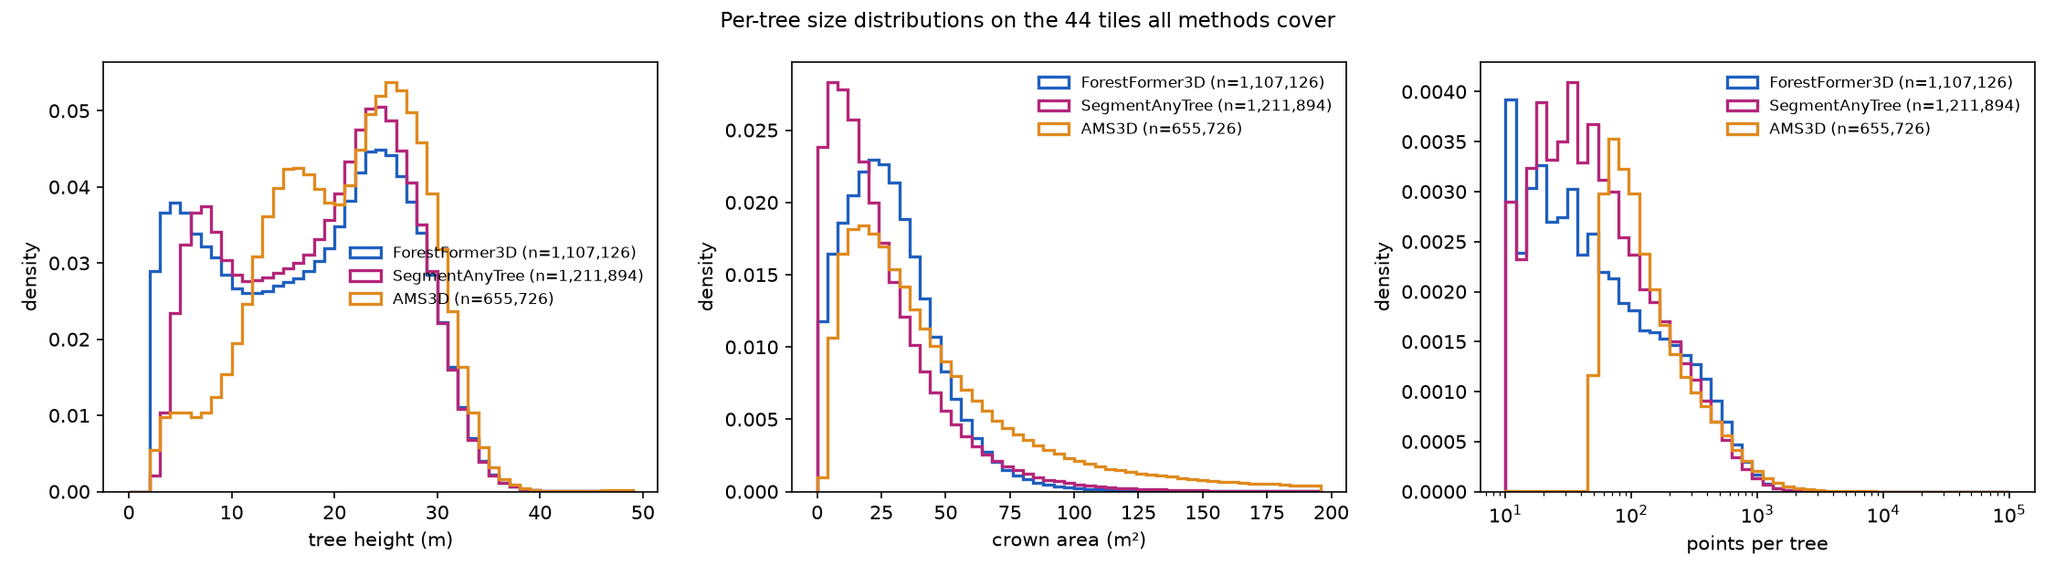
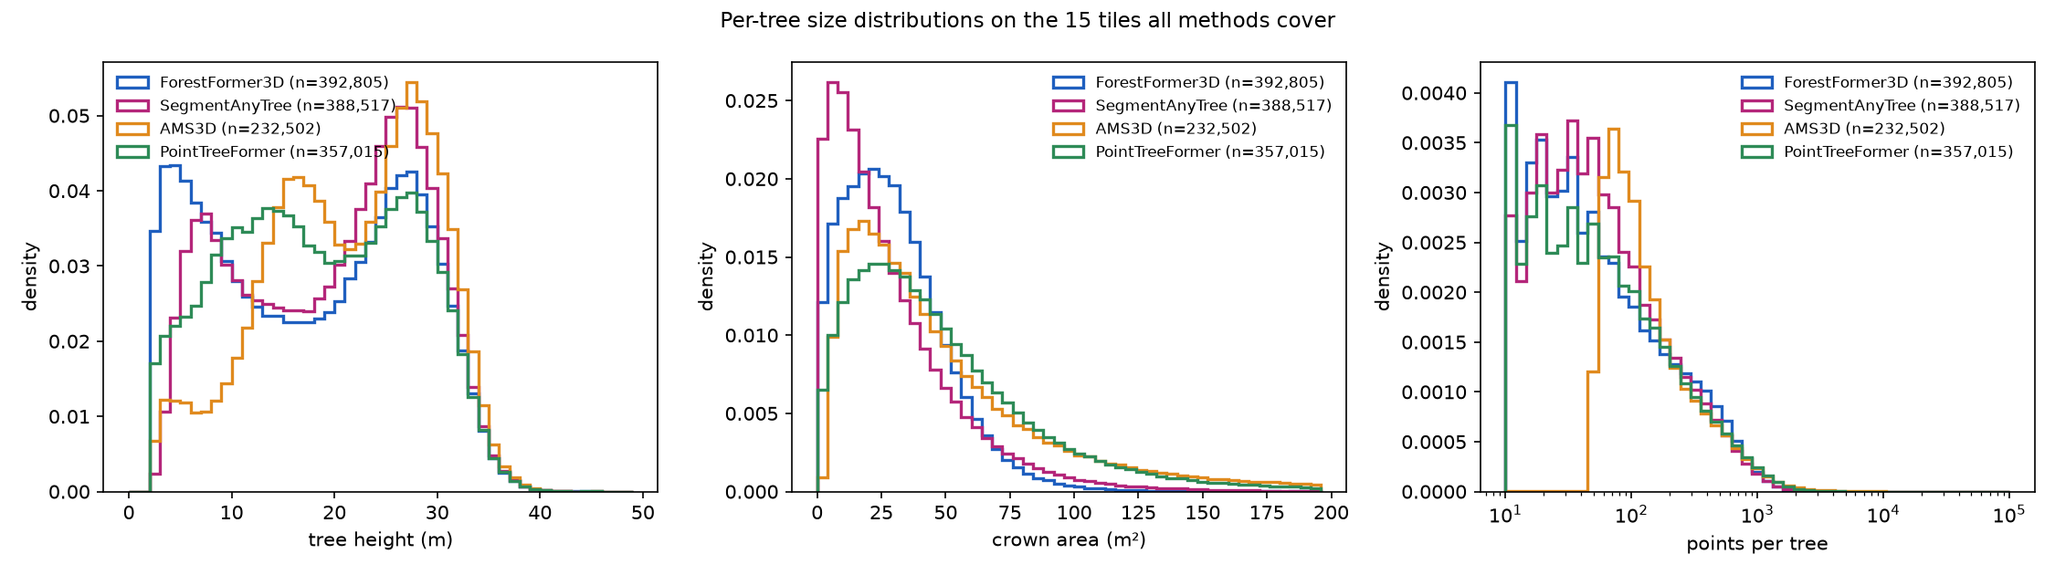
docs: PointTreeFormer as a fourth method in the analytics chapter and the report
The analytics read S. Reder's converted results (15 Tegel tiles) as a fourth method:
overview, quality flags, the shared-tiles distributions and every pairwise agreement found
under berlin_agreement/ are reported; trees are counted per (tile, id) for a method whose
ids are per tile (a stitch.json marks mosaic-wide ids). Methods, summary, introduction and
discussion name the source and what the comparison shows: it draws the larger crowns.

diff --git a/benchmark/berlin_analytics.py b/benchmark/berlin_analytics.py
@@ -38,9 +38,10 @@ METHODS = {
     "ff3d": ("ForestFormer3D", "berlin_als_2021_ff3d_v3"),
     "sat": ("SegmentAnyTree", "berlin_als_2021_sat_v3"),
     "ams3d": ("AMS3D", "berlin_als_2021_ams3d_v3"),
+    "ptf": ("PointTreeFormer", "berlin_als_2021_ptf"),      # S. Reder's results, 15 Tegel tiles (benchmark/ptf_to_ff3d.py)
 }
 AGREEMENT_TAG = "44"      # berlin_agreement/<a>_vs_<b>_<tag>/ from the carrot driver
-COLOURS = {"ff3d": "#1f5fbf", "sat": "#b4267a", "ams3d": "#e08a1e"}
+COLOURS = {"ff3d": "#1f5fbf", "sat": "#b4267a", "ams3d": "#e08a1e", "ptf": "#2e8b57"}
 FLAT_H, FLAT_AREA = 2.0, 50.0        # a "tree" under 2 m tall over 50 m2 of crown is ground labelled leaf
 SMALL_POINTS = 20                    # instances with fewer points than this are noise-sized
 CADASTRE_MATCH_M = 3.0               # a predicted top within this distance of a cadastre tree is a detection
@@ -122,8 +123,11 @@ def load_trees(als: Path, key: str, log=print):
     out = pd.concat(frames, ignore_index=True)
     # A table regenerated per tile from the tile's own LAS (building mask, height filter)
     # lists a tree straddling a km border in both tiles; the stitch's tables list it once.
-    # Count every id once, in the tile holding most of its points.
-    out = out.sort_values(["tree_id", "n_points"], ascending=[True, False]).drop_duplicates("tree_id", keep="first")
+    # Count every id once, in the tile holding most of its points -- but only where ids ARE
+    # mosaic-wide (a stitch.json exists); a method with per-tile ids (PointTreeFormer) reuses
+    # id 0.. in every tile and must be counted per (tile, id).
+    if (root / "stitch.json").exists():
+        out = out.sort_values(["tree_id", "n_points"], ascending=[True, False]).drop_duplicates("tree_id", keep="first")
     out = out.sort_values(["tile", "tree_id"]).reset_index(drop=True)
     return gpd.GeoDataFrame(out, geometry="geometry", crs=f"EPSG:{EPSG}")
 
@@ -458,11 +462,14 @@ def write_doc(doc: Path, assets_rel: str, S: dict, labels: dict) -> None:
                        [[L[k], S["methods"][k]["tiles"], fmt(S["methods"][k]["trees"]), fmt(S["methods"][k]["trees_per_km2"], 0),
                          fmt(S["methods"][k]["points_q"][1], 0),
                          " / ".join(fmt(v) for v in S["methods"][k]["height_q"]), fmt(S["methods"][k]["crown_q"][1])] for k in keys]), "",
-              "All three methods ran on the same 20 m-halo split of each km tile and went through the same "
-              "mosaic-wide stitch, so per-point labels are directly comparable (SegmentAnyTree and AMS3D "
-              "preserve point order; ForestFormer3D's result is re-ordered to the split)."
-              + (f" AMS3D's {S['methods']['ams3d']['tiles']} tiles are the subset it has been run on so far."
-                 if "ams3d" in S["methods"] and S["methods"]["ams3d"]["tiles"] < S["methods"]["ff3d"]["tiles"] else ""), ""]
+              "ForestFormer3D, SegmentAnyTree and AMS3D ran on the same 20 m-halo split of each km tile and went "
+              "through the same mosaic-wide stitch, so per-point labels are directly comparable (SegmentAnyTree and "
+              "AMS3D preserve point order; ForestFormer3D's result is re-ordered to the split); PointTreeFormer's "
+              "per-tile results were re-ordered onto the same points."
+              + "".join(f" {L[k]} covers {S['methods'][k]['tiles']} of the tiles, the subset it has been run on."
+                        for k in keys if S["methods"][k]["tiles"] < S["methods"]["ff3d"]["tiles"])
+              + (" PointTreeFormer's ids are per km tile (its run had a 20 m buffer but no mosaic-wide stitch), "
+                 "so its border trees are counted on both sides of a km line." if "ptf" in keys else ""), ""]
 
     # 2 per tile
     if "ff3d" in keys and "sat" in keys:
@@ -520,14 +527,18 @@ def write_doc(doc: Path, assets_rel: str, S: dict, labels: dict) -> None:
                  "Both are candidates for a post-filter; neither is applied to the products this chapter "
                  "describes (the minimum-height rule of the methods chapter applies from the 44-tile stitch on)."), ""]
     if S.get("three_way_tiles"):
-        lines += [f"On the {len(S['three_way_tiles'])} tiles all three methods cover "
+        lines += [f"On the {len(S['three_way_tiles'])} tiles every method covers "
                   f"({', '.join(tile_key(t) for t in S['three_way_tiles'])}):", "",
-                  f"![The same three distributions restricted to the tiles all three methods cover, now with AMS3D. "
+                  f"![The same distributions restricted to the tiles every method covers, all methods. "
                   f"Same axes and binning as the previous figure.]({assets_rel}/analytics_distributions_3way.png)", "",
                   "What we see: AMS3D has no short mode at all -- its height distribution starts at about 10 m -- and "
-                  "its crowns are the largest of the three. Mean shift with a height-dependent bandwidth merges the "
-                  "understory into the canopy tree above it, which is why it reports the fewest trees and the tallest "
-                  "ones; the two learned methods separate that layer.", "",
+                  "its crowns are the largest. Mean shift with a height-dependent bandwidth merges the understory into "
+                  "the canopy tree above it, which is why it reports the fewest trees and the tallest ones; the learned "
+                  "methods separate that layer. PointTreeFormer is the odd one out in height: a broad mode at 10-18 m, "
+                  "exactly where the other three have their trough, and the heaviest tail of large crowns (hulls "
+                  "over 75 m² are twice as frequent as in ForestFormer3D) -- consistent with it drawing the larger "
+                  "crowns in the agreement table and with mid-height instances that the others split into a canopy "
+                  "tree and an understory one.", "",
                   md_table(["method", "trees on these tiles", "height p10 / p50 / p90 (m)", "crown p50 (m²)"],
                            [[L[k], fmt(v["trees"]), " / ".join(fmt(x) for x in v["height_q"]), fmt(v["crown_q"][1])]
                             for k, v in S["three_way"].items()]), ""]
@@ -559,8 +570,11 @@ def write_doc(doc: Path, assets_rel: str, S: dict, labels: dict) -> None:
         if S["agreement"].get("ams3d"):
             rows = [[p, v["tiles"], pct(v["matched_frac_a"]), pct(v["matched_frac_b"]), fmt(v["iou_median"], 3), pct(v["split_a_frac"]), pct(v["split_b_frac"])]
                     for p, v in S["agreement"]["ams3d"].items()]
-            lines += ["On the tiles AMS3D covers, the classical baseline against each learned method (A = first named):", "",
-                      md_table(["pair", "tiles", "A matched", "B matched", "median IoU", "A split by B", "B split by A"], rows), ""]
+            lines += ["The other pairs, each on the tiles both methods cover (A = the first named):", "",
+                      md_table(["pair", "tiles", "A matched", "B matched", "median IoU", "A split by B", "B split by A"], rows), "",
+                      "The split columns say who draws the larger crowns: a method whose trees are often covered by "
+                      "several instances of the other draws them large (AMS3D, PointTreeFormer), one that splits the "
+                      "other's trees draws them small (SegmentAnyTree).", ""]
 
     # 5 seams + buildings
     lines += ["## 5. Seams and the building mask", "",
@@ -661,7 +675,8 @@ def write_doc(doc: Path, assets_rel: str, S: dict, labels: dict) -> None:
               "* The inventory heights are stand means from 2014 and the cadastre heights are inspection "
               "estimates; both references are coarser than the ALS-derived heights they are compared with.",
               "* The flat-blob and noise flags are descriptive; no filtering was applied to any count in this report.",
-              "* AMS3D covers a subset of tiles; its rows are not comparable with the 33-tile totals of the other two.", ""]
+              "* A method that covers only part of the tiles (the table says how many) is not comparable with the "
+              "whole-mosaic totals of the others; its per-tile rates are.", ""]
     doc.write_text("\n".join(lines))
 
 
@@ -734,9 +749,10 @@ def main(argv=None) -> int:
                 inside = [t for t in common if f.geometry.intersection(box(int(t.split("_")[2]) * 1000, int(t.split("_")[3]) * 1000,
                                                                           int(t.split("_")[2]) * 1000 + 1000, int(t.split("_")[3]) * 1000 + 1000)).area > 2.5e5]
                 S["ratio_by_footprint"][f.key] = {"tiles": len(inside), "ratio": float(np.mean([ratio[t] for t in inside])) if inside else np.nan}
-    fig_distributions({k: v for k, v in trees.items() if k != "ams3d"} or trees, a.assets / "analytics_distributions.png")
-    if "ams3d" in trees and len(trees) > 1:
-        three = sorted(set(trees["ams3d"].tile).intersection(*[set(v.tile) for k, v in trees.items() if k != "ams3d"]))
+    full = {k: v for k, v in trees.items() if v.tile.nunique() == trees["ff3d"].tile.nunique()} if "ff3d" in trees else trees
+    fig_distributions(full or trees, a.assets / "analytics_distributions.png")
+    if len(trees) > len(full):
+        three = sorted(set.intersection(*[set(v.tile) for v in trees.values()]))
         if three:
             S["three_way_tiles"] = three
             S["three_way"] = {k: {"trees": int(v.tile.isin(three).sum()), "height_q": quantiles(v[v.tile.isin(three)].height),
@@ -749,10 +765,14 @@ def main(argv=None) -> int:
         S["agreement"] = {"ff3d_sat": pooled_agreement(agr)}
         fig_agreement(agr, a.assets / "analytics_agreement.png", labels["ff3d"], labels["sat"])
         pairs = {}
-        for k in ("ff3d", "sat"):
-            recs = load_agreement(als / "berlin_agreement" / f"{k}_vs_ams3d_{AGREEMENT_TAG}")
+        for d in sorted((als / "berlin_agreement").glob(f"*_vs_*_{AGREEMENT_TAG}")):
+            a_key, b_key = d.name[: -len(f"_{AGREEMENT_TAG}")].split("_vs_")
+            if (a_key, b_key) == ("ff3d", "sat") or a_key not in labels or b_key not in labels:
+                continue
+            recs = load_agreement(d)
             if recs:
-                pairs[f"{labels[k]} vs AMS3D"] = pooled_agreement(recs)
+                pairs[f"{labels[a_key]} vs {labels[b_key]}"] = pooled_agreement(recs)
+                S["agreement"][f"{a_key}_{b_key}"] = pairs[f"{labels[a_key]} vs {labels[b_key]}"]
         if pairs:
             S["agreement"]["ams3d"] = pairs
 

diff --git a/tests/test_berlin_analytics.py b/tests/test_berlin_analytics.py
@@ -66,3 +66,31 @@ def test_real_drops_macos_resource_forks(tmp_path):
     (tmp_path / "a.json").write_text("{}")
     (tmp_path / "._a.json").write_bytes(b"\x00\x05\x16\x07")
     assert [p.name for p in real(sorted(tmp_path.glob("*.json")))] == ["a.json"]
+
+
+def test_load_trees_dedupes_only_mosaic_wide_ids(tmp_path):
+    """Stitched methods (stitch.json present) list a km-border tree in two tiles' regenerated
+    tables and must count it once; a method with per-tile ids (PointTreeFormer) reuses id 0..
+    in every tile and must be counted per (tile, id)."""
+    gpd = pytest.importorskip("geopandas")
+    from shapely.geometry import Point
+    import berlin_analytics as ba
+
+    def table(root, tile, ids, npts):
+        d = root / tile; d.mkdir(parents=True)
+        g = gpd.GeoDataFrame({"tree_id": ids, "x": [0.0] * len(ids), "y": [0.0] * len(ids), "top_z": [10.0] * len(ids),
+                              "height": [10.0] * len(ids), "crown_area_m2": [20.0] * len(ids), "n_points": npts,
+                              "mean_score": [0.5] * len(ids)}, geometry=[Point(0, 0)] * len(ids), crs="EPSG:25833")
+        g.to_file(d / f"{tile}_trees.gpkg", driver="GPKG", layer="trees")
+
+    als = tmp_path
+    for key, with_stitch in (("ff3d", True), ("ptf", False)):
+        root = als / ba.METHODS[key][1]
+        table(root, "3dm_33_380_5828_1_be", [0, 1], [100, 50])
+        table(root, "3dm_33_381_5828_1_be", [1, 2], [30, 70])          # id 1 appears in both tiles
+        if with_stitch:
+            (root / "stitch.json").write_text("{}")
+    ff3d = ba.load_trees(als, "ff3d", log=lambda m: None)
+    ptf = ba.load_trees(als, "ptf", log=lambda m: None)
+    assert len(ff3d) == 3 and ff3d[ff3d.tree_id == 1].tile.tolist() == ["3dm_33_380_5828_1_be"]   # kept where it has most points
+    assert len(ptf) == 4

diff --git a/docs/benchmarks/2026-10-05-berlin-analytics.md b/docs/benchmarks/2026-10-05-berlin-analytics.md
@@ -1,6 +1,6 @@
 # Comparisons and analytics across the Berlin mosaic
 
-Generated 2026-10-06 by `benchmark/berlin_analytics.py` from the stitched per-tile products on the 2TB volume; every number here is also in `assets/analytics/analytics.json`. The chapter compares the three segmentation methods with each other on identical points and, where an external reference exists, against the Berlin forest inventory and the tree cadastre. It says nothing about which method is *right* in the forest interior -- no per-tree ground truth exists there (data-sources chapter, section 5).
+Generated 2026-10-07 by `benchmark/berlin_analytics.py` from the stitched per-tile products on the 2TB volume; every number here is also in `assets/analytics/analytics.json`. The chapter compares the three segmentation methods with each other on identical points and, where an external reference exists, against the Berlin forest inventory and the tree cadastre. It says nothing about which method is *right* in the forest interior -- no per-tree ground truth exists there (data-sources chapter, section 5).
 
 ## 1. What was compared
 
@@ -9,8 +9,9 @@ Generated 2026-10-06 by `benchmark/berlin_analytics.py` from the stitched per-ti
 | ForestFormer3D | 44 | 1,107,126 | 25,162 | 285 | 4.9 / 18.6 / 28.8 | 26.2 |
 | SegmentAnyTree | 44 | 1,211,894 | 27,543 | 212 | 6.9 / 19.8 / 28.8 | 19.4 |
 | AMS3D | 44 | 655,726 | 14,903 | 302 | 10.8 / 21.6 / 29.9 | 36.6 |
+| PointTreeFormer | 15 | 357,015 | 23,801 | 298 | 6.7 / 18.4 / 30.1 | 40.0 |
 
-All three methods ran on the same 20 m-halo split of each km tile and went through the same mosaic-wide stitch, so per-point labels are directly comparable (SegmentAnyTree and AMS3D preserve point order; ForestFormer3D's result is re-ordered to the split).
+ForestFormer3D, SegmentAnyTree and AMS3D ran on the same 20 m-halo split of each km tile and went through the same mosaic-wide stitch, so per-point labels are directly comparable (SegmentAnyTree and AMS3D preserve point order; ForestFormer3D's result is re-ordered to the split); PointTreeFormer's per-tile results were re-ordered onto the same points. PointTreeFormer covers 15 of the tiles, the subset it has been run on. PointTreeFormer's ids are per km tile (its run had a 20 m buffer but no mosaic-wide stitch), so its border trees are counted on both sides of a km line.
 
 ## 2. Trees per km tile
 
@@ -31,22 +32,24 @@ What we see: the height panel has two modes for both methods, a tall one at 24-2
 | ForestFormer3D | 1,107,126 | 0 (0.0 %) | 36,108 (3.3 %) | 462 (0.04 %) |
 | SegmentAnyTree | 1,211,894 | 0 (0.0 %) | 47,126 (3.9 %) | 552 (0.05 %) |
 | AMS3D | 655,726 | 0 (0.0 %) | 78 (0.0 %) | 808 (0.12 %) |
+| PointTreeFormer | 357,015 | 0 (0.0 %) | 10,761 (3.0 %) | 153 (0.04 %) |
 
 Both height distributions are bimodal: a canopy mode near 26 m and a second mode at 4-7 m (understory, hedges, young trees in gardens). ForestFormer3D has more of the low mode and of instances under 2 m; SegmentAnyTree's crowns are smaller (crown area p50 20 vs 26 m²) because it cuts more of them (section 4).
 
 The flat-blob flag is the artefact seen in the viewer: an instance with almost no height but a large footprint is bare ground (ALS class 2) that the model labelled as leaf, not a tree. The noise-sized flag counts instances too small to be a crown at 20-30 pts/m². The products of this chapter went through the stitch's minimum-height rule (2.0 m), which removed 15,841 instances mosaic-wide before any table was written; the counts above are after it, and the flat-blob row is what the 2 m rule does not reach (instances taller than 2 m with a wide, flat hull).
 
-On the 44 tiles all three methods cover (374_5825, 374_5826, 374_5827, 374_5828, 375_5825, 375_5826, 375_5827, 375_5828, 375_5829, 376_5825, 376_5826, 376_5827, 376_5828, 377_5825, 377_5826, 377_5827, 377_5828, 378_5826, 378_5827, 379_5826, 379_5827, 379_5828, 379_5829, 379_5830, 380_5826, 380_5827, 380_5828, 380_5829, 380_5830, 381_5826, 381_5827, 381_5828, 381_5829, 381_5830, 382_5826, 382_5827, 382_5828, 382_5829, 382_5830, 383_5826, 383_5827, 383_5828, 383_5829, 383_5830):
+On the 15 tiles every method covers (379_5826, 379_5827, 379_5828, 379_5829, 380_5826, 380_5827, 380_5828, 380_5829, 381_5827, 381_5828, 381_5829, 382_5828, 382_5829, 383_5828, 383_5829):
 
-![The same three distributions restricted to the tiles all three methods cover, now with AMS3D. Same axes and binning as the previous figure.](assets/analytics/analytics_distributions_3way.png)
+![The same distributions restricted to the tiles every method covers, all methods. Same axes and binning as the previous figure.](assets/analytics/analytics_distributions_3way.png)
 
-What we see: AMS3D has no short mode at all -- its height distribution starts at about 10 m -- and its crowns are the largest of the three. Mean shift with a height-dependent bandwidth merges the understory into the canopy tree above it, which is why it reports the fewest trees and the tallest ones; the two learned methods separate that layer.
+What we see: AMS3D has no short mode at all -- its height distribution starts at about 10 m -- and its crowns are the largest. Mean shift with a height-dependent bandwidth merges the understory into the canopy tree above it, which is why it reports the fewest trees and the tallest ones; the learned methods separate that layer. PointTreeFormer is the odd one out in height: a broad mode at 10-18 m, exactly where the other three have their trough, and the heaviest tail of large crowns (hulls over 75 m² are twice as frequent as in ForestFormer3D) -- consistent with it drawing the larger crowns in the agreement table and with mid-height instances that the others split into a canopy tree and an understory one.
 
 | method | trees on these tiles | height p10 / p50 / p90 (m) | crown p50 (m²) |
 | :--- | ---: | ---: | ---: |
-| ForestFormer3D | 1,107,126 | 4.9 / 18.6 / 28.8 | 26.2 |
-| SegmentAnyTree | 1,211,894 | 6.9 / 19.8 / 28.8 | 19.4 |
-| AMS3D | 655,726 | 10.8 / 21.6 / 29.9 | 36.6 |
+| ForestFormer3D | 392,805 | 4.5 / 18.2 / 30.1 | 27.3 |
+| SegmentAnyTree | 388,517 | 6.9 / 21.3 / 30.4 | 21.5 |
+| AMS3D | 232,502 | 10.6 / 22.2 / 31.1 | 39.4 |
+| PointTreeFormer | 357,015 | 6.7 / 18.4 / 30.1 | 40.0 |
 
 ## 4. Instance agreement: ForestFormer3D vs SegmentAnyTree
 
@@ -56,12 +59,15 @@ What we see: the matched fractions move together from tile to tile (0.35-0.68) a
 
 Pooled over 44 tiles and 778,681,715 identical points: 637,325 tree pairs overlap with IoU ≥ 0.5, i.e. 57.0 % of ForestFormer3D's 1,117,231 trees and 52.2 % of SegmentAnyTree's 1,219,764; the median IoU of a matched pair is 0.742 (the median of the per-tile medians; all pooled figures weight tiles by their tree count, so they differ in the last digit from the unweighted tile means quoted in the appendix). 28.8 % of ForestFormer3D trees are covered by two or more SegmentAnyTree instances against 10.5 % the other way round: where the two disagree, SegmentAnyTree has mostly cut one crown into several, which is also why it reports more trees.
 
-On the tiles AMS3D covers, the classical baseline against each learned method (A = first named):
+The other pairs, each on the tiles both methods cover (A = the first named):
 
 | pair | tiles | A matched | B matched | median IoU | A split by B | B split by A |
 | :--- | ---: | ---: | ---: | ---: | ---: | ---: |
 | ForestFormer3D vs AMS3D | 44 | 32.0 % | 53.7 % | 0.725 | 11.4 % | 34.1 % |
+| ForestFormer3D vs PointTreeFormer | 15 | 51.1 % | 56.9 % | 0.732 | 17.8 % | 31.6 % |
 | SegmentAnyTree vs AMS3D | 44 | 27.3 % | 50.1 % | 0.726 | 9.8 % | 39.0 % |
+
+The split columns say who draws the larger crowns: a method whose trees are often covered by several instances of the other draws them large (AMS3D, PointTreeFormer), one that splits the other's trees draws them small (SegmentAnyTree).
 
 ## 5. Seams and the building mask
 
@@ -129,9 +135,11 @@ The cadastre lists managed trees with a surveyed position and a height that is u
 | R12 | 515 | ForestFormer3D | 100 % | 193,229 | 375 | 6.1 / 22.6 / 31.5 |
 | R12 | 515 | SegmentAnyTree | 100 % | 186,125 | 361 | 9.1 / 24.9 / 31.8 |
 | R12 | 515 | AMS3D | 100 % | 131,396 | 255 | 13.1 / 24.2 / 32.0 |
+| R12 | 515 | PointTreeFormer | 100 % | 180,312 | 350 | 9.4 / 21.6 / 31.4 |
 | R13 | 1,034 | ForestFormer3D | 100 % | 372,818 | 361 | 6.8 / 21.1 / 28.4 |
 | R13 | 1,034 | SegmentAnyTree | 100 % | 434,322 | 420 | 7.8 / 21.4 / 28.2 |
 | R13 | 1,034 | AMS3D | 100 % | 254,523 | 246 | 12.3 / 22.2 / 29.0 |
+| R13 | 1,034 | PointTreeFormer | 0 % | 0 | – | – / – / – |
 
 Density is per covered hectare, so partially covered footprints (R13 Spandau until its eleven remaining tiles are processed; AMS3D on its tile subset) stay comparable; the tree counts are partial.
 
@@ -140,4 +148,4 @@ Density is per covered hectare, so partially covered footprints (R13 Spandau unt
 * Agreement between methods is not accuracy: two methods can agree on a wrong split.
 * The inventory heights are stand means from 2014 and the cadastre heights are inspection estimates; both references are coarser than the ALS-derived heights they are compared with.
 * The flat-blob and noise flags are descriptive; no filtering was applied to any count in this report.
-* AMS3D covers a subset of tiles; its rows are not comparable with the 33-tile totals of the other two.
+* A method that covers only part of the tiles (the table says how many) is not comparable with the whole-mosaic totals of the others; its per-tile rates are.

diff --git a/docs/benchmarks/2026-10-05-methods.md b/docs/benchmarks/2026-10-05-methods.md
@@ -22,7 +22,7 @@ grid lines over the interior. Shifting the measuring lattice by 50 m gives the c
 floor those numbers are compared with (about 8 % of crowns touch any arbitrary line; 0 pp
 excess).
 
-## The three methods
+## The methods
 
 **ForestFormer3D** (Xiang et al. 2025) is a transformer over sparse-voxel features
 (OneFormer3D lineage, SpConv U-Net backbone, 300 query points, one-to-many matching),
@@ -47,8 +47,16 @@ ground, the classical approach the deep models are usually compared with. It run
 through the same sub-tiles and stitch; at 48 workers a km tile takes about 22 minutes
 (four such queues share the 224-core host).
 
-The three therefore differ only in the segmentation step; the points, the halo, the core
-ownership and the stitch are identical, so every per-point comparison is like for like.
+**PointTreeFormer** (Stefan Reder, HNEE) is a fourth segmentation whose results, not code, enter
+this report: he ran his model over 15 km tiles of the Tegel block (2026-10-05), each with a 20 m
+buffer, writing per-point ground/wood/leaf and instance ids per tile. `benchmark/ptf_to_ff3d.py`
+crops the buffer, puts the points into our result LAS order (the core holds exactly the tile's
+source points) and applies the 2 m rule, so per-point agreement is exact; its ids are not unified
+across km lines, since it did not go through the mosaic stitch.
+
+The first three therefore differ only in the segmentation step; the points, the halo, the core
+ownership and the stitch are identical, so every per-point comparison is like for like, and
+PointTreeFormer shares the points and the height rule but not the stitch.
 
 ## Products and post-processing
 

diff --git a/docs/benchmarks/2026-10-05-summary.md b/docs/benchmarks/2026-10-05-summary.md
@@ -28,7 +28,11 @@ What the work established:
   covered by two or more SegmentAnyTree instances, {{agreement.ff3d_sat.split_b_frac|pct}} the
   other way round). SegmentAnyTree reports {{sat_over_ff3d|3}}x as many trees overall; the
   surplus is concentrated in the Spandau forest (ratio {{ratio_by_footprint.R13.ratio|2}}
-  there against {{ratio_by_footprint.R12.ratio|2}} in Tegel).
+  there against {{ratio_by_footprint.R12.ratio|2}} in Tegel). A fourth segmentation,
+  Stefan Reder's PointTreeFormer on {{agreement.ff3d_ptf.tiles}} Tegel tiles, matches
+  {{agreement.ff3d_ptf.matched_frac_a|pct}} of ForestFormer3D's trees and draws the larger
+  crowns ({{agreement.ff3d_ptf.split_b_frac|pct}} of its trees are covered by several
+  ForestFormer3D instances, {{agreement.ff3d_ptf.split_a_frac|pct}} the other way).
 * **The predictions are consistent with the forest inventory.** Joined to the Berlin forest
   stand map, the 90th percentile of predicted tree heights per stand tracks the 2014
   inventory's canopy height by species (correlation {{stands_r|2}} over {{stands_n}}

diff --git a/docs/benchmarks/2026-10-05-discussion.md b/docs/benchmarks/2026-10-05-discussion.md
@@ -17,6 +17,12 @@ SegmentAnyTree finds {{ratio_by_footprint.R13.ratio|2}}x as many trees, in Tegel
 finding -- their stand structure differs -- and the WINMOL field circles in both are the
 instrument to settle it.
 
+PointTreeFormer, on the 15 Tegel tiles it covers, matches ForestFormer3D about as often as
+SegmentAnyTree does but from the other side: it draws the larger crowns, so its instances are the
+ones covered by several ForestFormer3D trees. Three methods thus bracket ForestFormer3D's crown
+size -- SegmentAnyTree smaller, PointTreeFormer and AMS3D larger -- which again is a statement
+about agreement, not about which size is right.
+
 The classical baseline reports fewer, larger and taller instances and misses the understory
 mode of the height distribution altogether; its role in this report is to show what a
 model-free method gets from the same points, and the deep models add a second mode of

diff --git a/docs/benchmarks/2026-10-05-introduction.md b/docs/benchmarks/2026-10-05-introduction.md
@@ -47,6 +47,7 @@ points/m² over forest.
 | DOP 2021 (leaf-off) and TrueDOP 2025 summer orthophotos | GDI Berlin WMS | visual checks, viewer, QGIS |
 | ForestFormer3D weights `epoch_3000_fix.pth` | Zenodo 16742708 | the model, used as released |
 | SegmentAnyTree `PointGroup-PAPER.pt` | the authors' release | comparison method |
+| PointTreeFormer results, 15 Tegel tiles | Stefan Reder (HNEE), run of 2026-10-05 | comparison method (results only) |
 | WINMOL 2025 survey footprints and 974 field-circle crowns | project data | coverage; not yet used for accuracy |
 
 The data-sources chapter gives the full provenance and licences; the methods chapter
